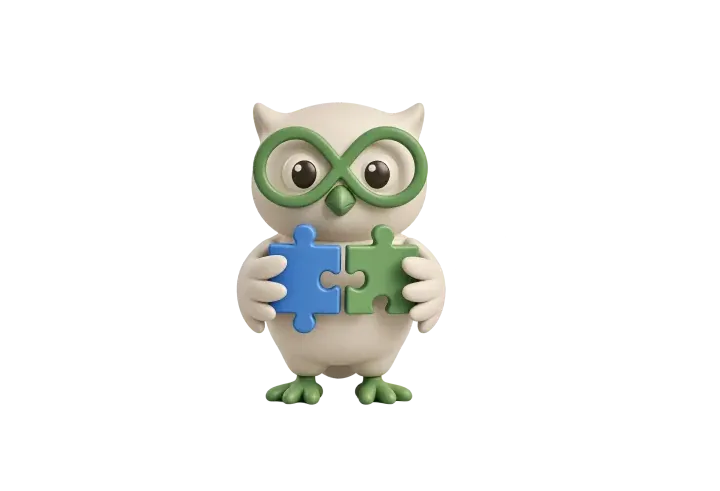
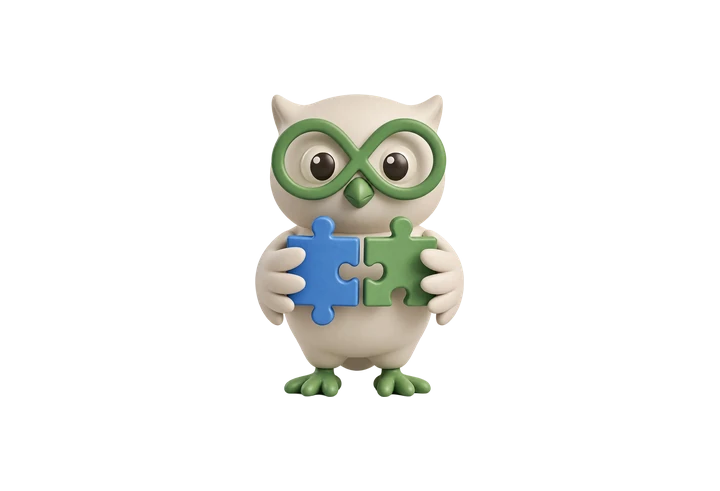
world test change

Changed region(s): [[0.3056, 0.1833, 0.6417, 0.8248]]

diff --git a/apps/web/src/features/onboarding/components/OnboardingIntro.tsx b/apps/web/src/features/onboarding/components/OnboardingIntro.tsx
@@ -16,10 +16,10 @@ import { ARRIVE_AFTER_STREAM, STREAM_PACE, StreamedText, streamSequence } from '
  * eye is led down the hierarchy rather than handed all of it at once. The
  * action arrives last, once there is something to act on.
  *
- * Top-aligned rather than centred: the text sits a fixed distance below the
- * header on every phone, instead of drifting with the screen's height, and
- * the owl follows it — part of the stage, not a clip on it (see
- * `StageArtwork`). The screen is `surface-stage` — black in the dark theme —
+ * Top-aligned rather than centred: the text sits directly below the header on
+ * every phone, with the same spacing as the questionnaire intro, and the owl
+ * is centred under it exactly where the other stage owls land — part of the
+ * stage, not a clip on it (see `StageArtwork`). The screen is `surface-stage` — black in the dark theme —
  * so the artwork is the only light on it.
  *
  * No header control: the only way on is the button, and stage 1 has its own
@@ -46,7 +46,7 @@ export function OnboardingIntro() {
     <Screen className="bg-surface-stage">
       <ScreenHeader />
 
-      <ScreenBody className="gap-8 pt-10 text-start">
+      <ScreenBody className="gap-5 text-start">
         <div className="flex flex-col gap-4">
           <ScreenTitle
             title={

diff --git a/apps/web/src/features/onboarding/components/StageArtwork.tsx b/apps/web/src/features/onboarding/components/StageArtwork.tsx
@@ -7,7 +7,7 @@ import type { CSSProperties } from 'react';
  * Every file is prepared the same way, so every screen that shows one places
  * it on the same line at the same scale: exported from
  * `assets/illustrations/<name>.webp` into `public/images/brand/` at 720×491,
- * framed so the subject keeps clear of the edges (at least 15% at the sides
+ * framed so the subject is centred and keeps clear of the edges (at least 15% at the sides
  * and 11% top and bottom, in every frame), with the artwork's grey backdrop
  * lifted to white and a `<name>-still.webp` first frame beside it. On the
  * screen there is no frame and no corners: the edges fade out over that

diff --git a/docs/PRD.md b/docs/PRD.md
@@ -165,7 +165,8 @@ stage 1 and stage 2. Code lives in `apps/web/src/features/onboarding`.
 **Intro — `/onboarding`.** «بیا دنیای تو رو بسازیم», what the stages are for,
 and one action, «شروع ساخت دنیای من», to stage 1. The screen is black
 (`--surface-stage`; the plain background in the light theme). The text is
-top-aligned a fixed distance under the header, start-aligned (right, in RTL),
+top-aligned under the header with the questionnaire intro's spacing,
+start-aligned (right, in RTL),
 and descends in weight: bold title, body, then a quieter
 line. It streams in in that order a word at a time — about two seconds in
 all — and the action appears last; with reduced motion it is all there at
@@ -257,7 +258,9 @@ question count — only «داریم بیشتر میشناسیمت» over a c
   Section 3 are stills; the intro (the owl in flight) and Sections 1–2 (the
   owl painting) are animated. The files live in
   `apps/web/public/images/brand/` (sources in `assets/illustrations/`) and
-  are all prepared the same way — 720×491, the subject kept clear of the
+  are all prepared the same way — 720×491, the subject centred in the
+  frame (a still's asymmetric margins would shift it off the column's
+  centre line) and kept clear of the
   edges in every frame, the artwork's grey backdrop and its vignette lifted
   to white (a master drawn on transparency stays transparent, so it sits on
   the stage in both themes), with a `-still.webp` first frame.
